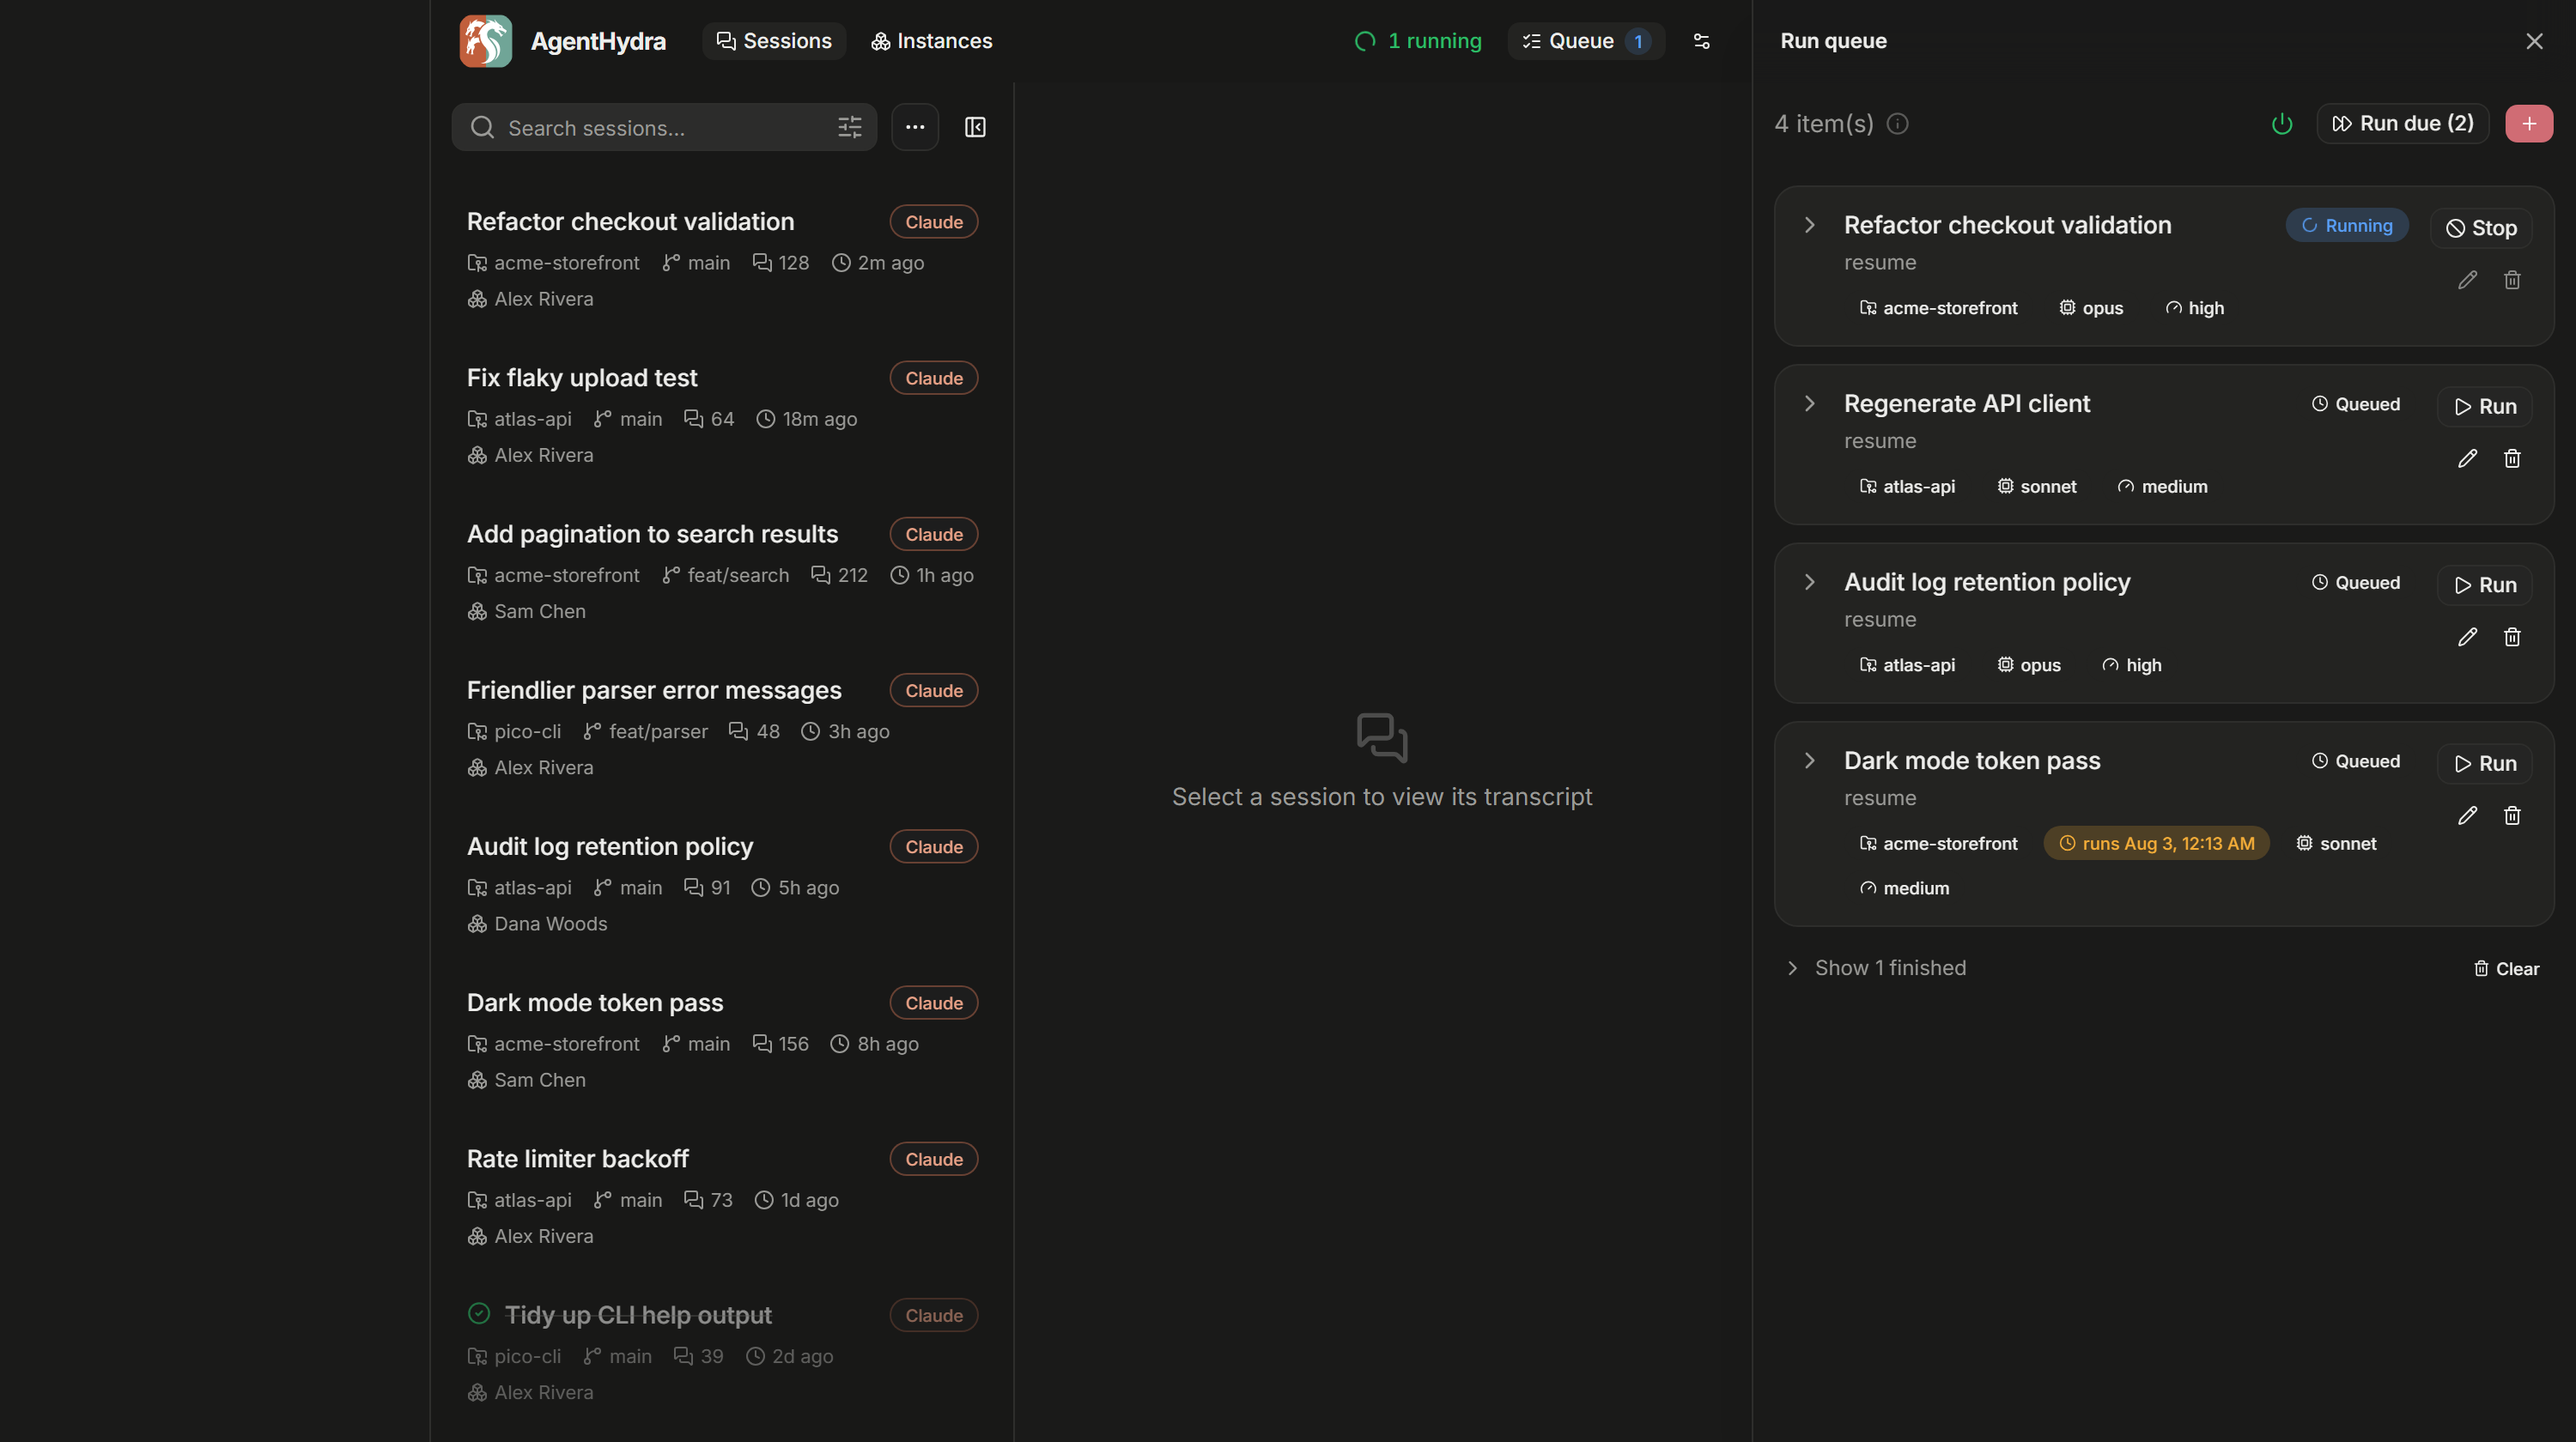
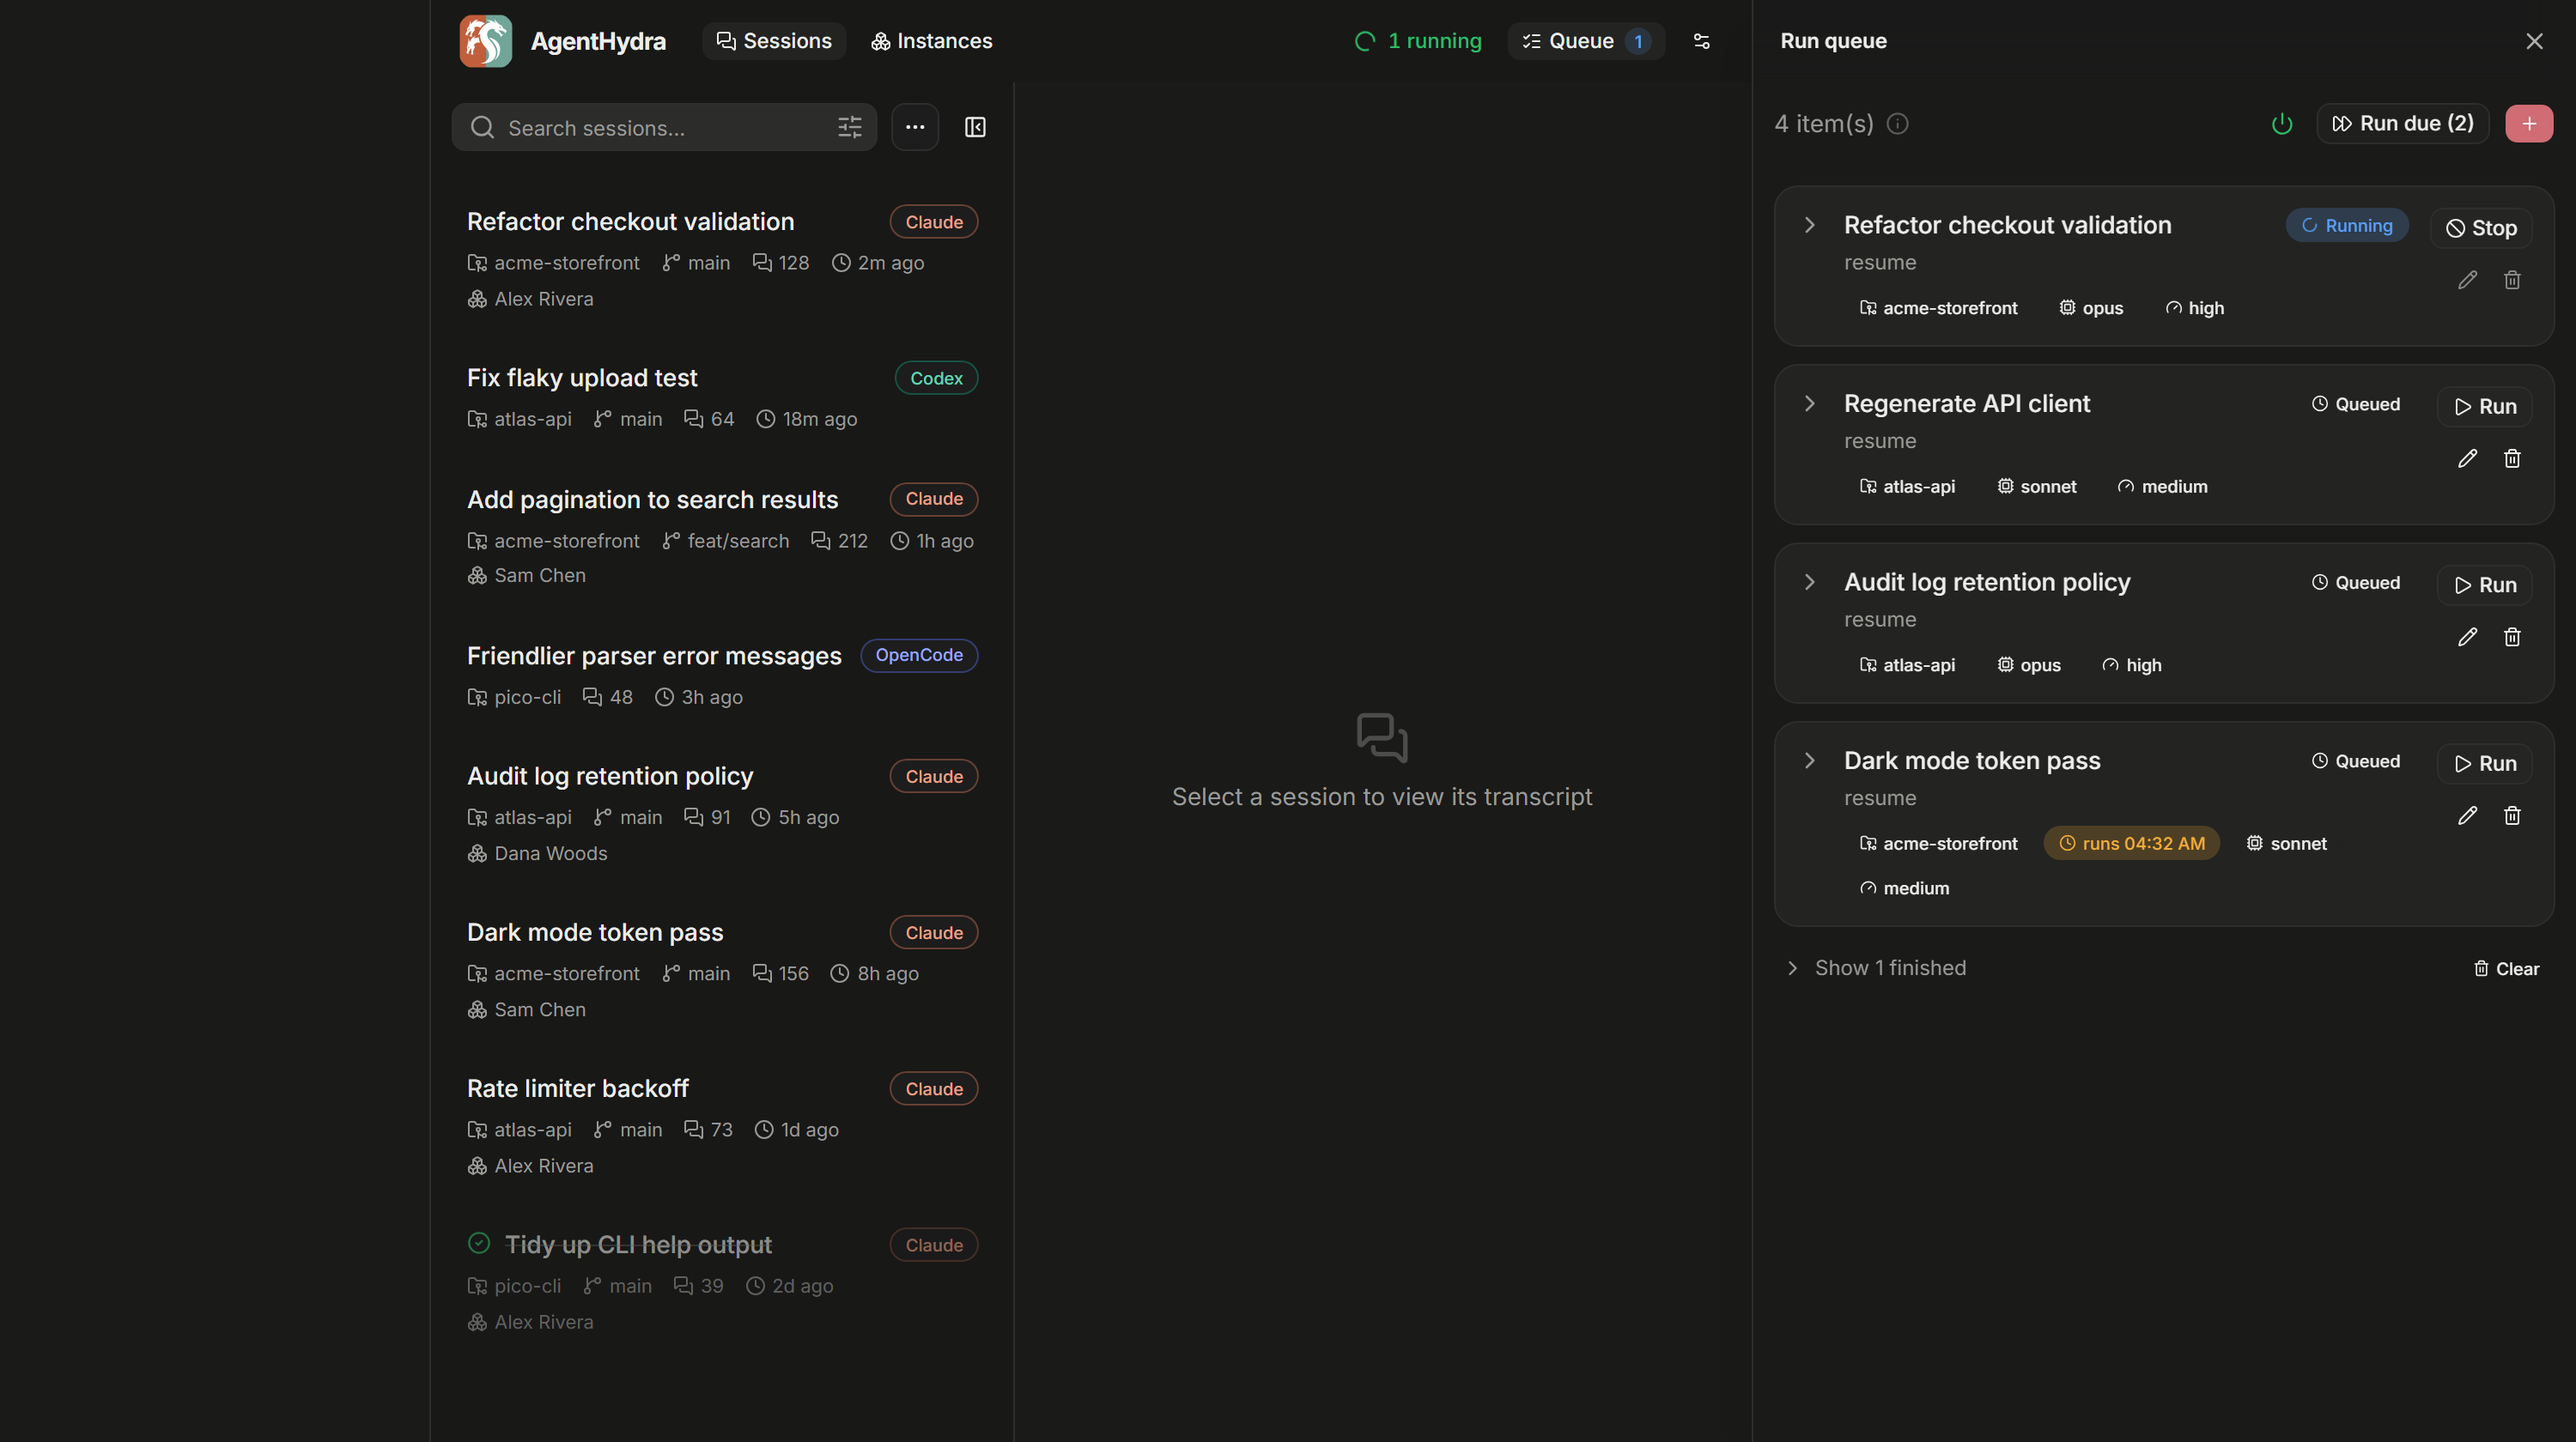
Show all three providers in the README screenshots
Every one of the eight canned sessions was `source: 'claude'`, so the sessions and queue
images showed a uniform list and the multi-provider support the README describes right
above them was invisible. Two rows are now Codex and OpenCode.

Their dependent fields are nulled the way the server nulls them rather than left filled:
`instance` and `queue_status` for both (sessions.ts only maps those for `claude`), and
`git_branch` for OpenCode, whose reader parses no repo metadata. `transcript_path` follows
each provider's real store, including the shared SQLite file for OpenCode, which has no
per-session file at all. The queue fixture now draws only from Claude sessions, since a
queue item is always a `claude` run.

The sessions shot's `expect` asserts all three badges are present, so a later fixture edit
that quietly made the list uniform again fails the capture instead of committing an image
that no longer shows what it is there to show.

diff --git a/scripts/screenshots/page-fixtures.js b/scripts/screenshots/page-fixtures.js
@@ -18,34 +18,58 @@
   const proj = (n) => `C:\\Projects\\${n}`
   const projKey = (n) => `C--Projects-${n}`
 
+  // Where each provider's transcript actually lives, so the raw-file affordances in the UI line
+  // up with the badge on the row. OpenCode has no per-session file: CLI and Desktop share one
+  // SQLite store, which is why its row points at the database.
+  const transcriptPath = (source, p, i) =>
+    source === 'codex'
+      ? `C:\\Users\\dev\\.codex\\sessions\\2026\\08\\04\\rollout-2026-08-04T09-14-22-s${i}.jsonl`
+      : source === 'opencode'
+        ? 'C:\\Users\\dev\\.local\\share\\opencode\\opencode.db'
+        : `C:\\Users\\dev\\.claude\\projects\\${projKey(p)}\\s${i}.jsonl`
+
+  // A mixed list is the point of the shot: the app reads all three providers, and the badge
+  // column is the only thing that says so. The fields the server nulls out for non-Claude rows
+  // (instance, queue_status, and git_branch for OpenCode, which parses no repo metadata) are
+  // nulled here too — a fixture that fills them would photograph a UI the daemon cannot produce.
   const sessions = [
-    ['Refactor checkout validation', 'acme-storefront', 'main', 128, 2, 'work'],
-    ['Fix flaky upload test', 'atlas-api', 'main', 64, 18, 'work'],
-    ['Add pagination to search results', 'acme-storefront', 'feat/search', 212, 63, 'personal'],
-    ['Friendlier parser error messages', 'pico-cli', 'feat/parser', 48, 184, 'work'],
-    ['Audit log retention policy', 'atlas-api', 'main', 91, 300, 'research'],
-    ['Dark mode token pass', 'acme-storefront', 'main', 156, 480, 'personal'],
-    ['Rate limiter backoff', 'atlas-api', 'main', 73, 1500, 'work'],
-    ['Tidy up CLI help output', 'pico-cli', 'main', 39, 2900, 'work'],
-  ].map(([title, p, branch, count, mins, instance], i) => ({
+    ['Refactor checkout validation', 'acme-storefront', 'main', 128, 2, 'work', 'claude'],
+    ['Fix flaky upload test', 'atlas-api', 'main', 64, 18, null, 'codex'],
+    [
+      'Add pagination to search results',
+      'acme-storefront',
+      'feat/search',
+      212,
+      63,
+      'personal',
+      'claude',
+    ],
+    ['Friendlier parser error messages', 'pico-cli', 'feat/parser', 48, 184, null, 'opencode'],
+    ['Audit log retention policy', 'atlas-api', 'main', 91, 300, 'research', 'claude'],
+    ['Dark mode token pass', 'acme-storefront', 'main', 156, 480, 'personal', 'claude'],
+    ['Rate limiter backoff', 'atlas-api', 'main', 73, 1500, 'work', 'claude'],
+    ['Tidy up CLI help output', 'pico-cli', 'main', 39, 2900, 'work', 'claude'],
+  ].map(([title, p, branch, count, mins, instance, source], i) => ({
     session_id: `s${i}0000000-0000-4000-8000-00000000000${i}`,
-    source: 'claude',
+    source,
     title,
     cwd: proj(p),
     project: projKey(p),
-    git_branch: branch,
+    git_branch: source === 'opencode' ? null : branch,
     message_count: count,
     created_at: ago(mins + 240),
     last_activity_at: ago(mins),
     last_role: 'assistant',
     last_text_preview: 'Updated the module and re-ran the suite; everything passes locally.',
     size_bytes: count * 3200,
-    transcript_path: `C:\\Users\\dev\\.claude\\projects\\${projKey(p)}\\s${i}.jsonl`,
+    transcript_path: transcriptPath(source, p, i),
     queue_status: null,
-    instance,
+    instance: source === 'claude' ? instance : null,
     archived: false,
     done: i === 7,
   }))
+  /** The queue only ever holds `claude` runs, so its rows may only point at Claude sessions. */
+  const claudeSessions = sessions.filter((s) => s.source === 'claude')
 
   const turns = [
     {
@@ -207,7 +231,7 @@
     ['Tidy up CLI help output', 'pico-cli', 'completed'],
   ].map(([title, p, status], i) => ({
     id: `q${i}0000000-0000-4000-8000-00000000000${i}`,
-    session_id: sessions[i % sessions.length].session_id,
+    session_id: claudeSessions[i % claudeSessions.length].session_id,
     title,
     cwd: proj(p),
     prompt: 'resume',

diff --git a/README.md b/README.md
@@ -41,7 +41,7 @@ the desktop app do not come with.
 
 ## Every session, in one list
 
-![The sessions view: a searchable list of Claude Code transcripts on the left, one open on the right with a message box at the bottom](.github/screenshots/sessions.png)
+![The sessions view: a searchable list on the left holding Claude, Codex and OpenCode transcripts together, each badged with the tool that wrote it, one open on the right with a message box at the bottom](.github/screenshots/sessions.png)
 
 <sub>Screenshots use demo data.</sub>
 
